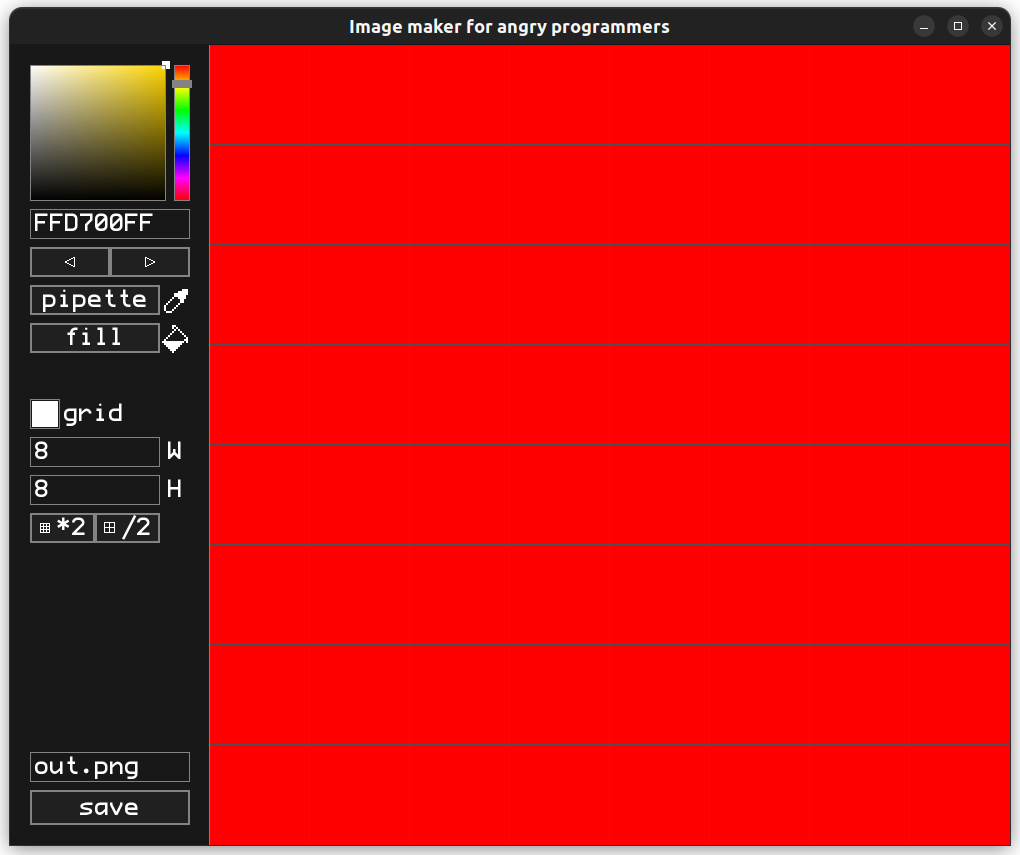
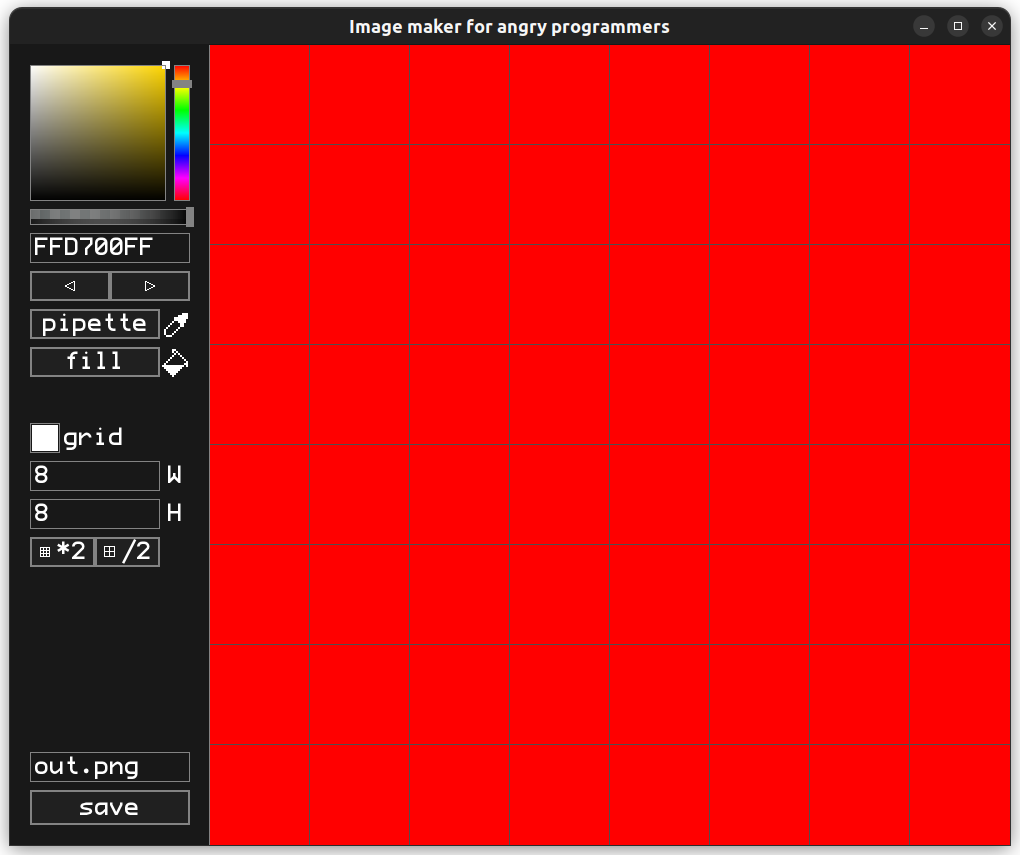
added alpha-slider

Changed region(s): [[0.0304, 0.2433, 0.2127, 0.669]]

diff --git a/src/menu.c b/src/menu.c
@@ -164,15 +164,19 @@ void drawMenu(shared_state_t *s, menu_state_t *ms, Rectangle menu_rect){
     int color_picker_size = menu_content_width - huebar_width - huebar_padding;
 
     Vector3 color_picker_hsv = s->active_color.hsv;
+    float bar_alpha = s->active_color.rgba.a / 255.0;
     float bar_hue = color_picker_hsv.x; // The color panel should only affect saturation & value. Thus hue is buffered.
     GuiColorPanelHSV((Rectangle){menu_padding, color_picker_y, color_picker_size, color_picker_size}, "heyyyy", &color_picker_hsv);
-    GuiColorBarHue((Rectangle){menu_padding + color_picker_size + huebar_padding, color_picker_y, huebar_width, color_picker_size}, "oiii", &bar_hue);
+    GuiColorBarHue(  (Rectangle){menu_padding + color_picker_size + huebar_padding, color_picker_y, huebar_width, color_picker_size}, "oiii", &bar_hue);
+    GuiColorBarAlpha((Rectangle){menu_padding, color_picker_y + color_picker_size + huebar_padding, color_picker_size + huebar_padding + huebar_width, huebar_width}, "uiii", &bar_alpha);
     color_picker_hsv.x = bar_hue;
 
     // check if the color picker changed the color
     if (memcmp(&color_picker_hsv, &s->active_color.hsv, sizeof(color_picker_hsv)) != 0){
         setFromHSV(&s->active_color, color_picker_hsv);
     }
+    // set alpha value. Since it is not represented in HSV, we modify rgba directly, to avoid overriding the hsv value with a lossy rgb -> hsv conversion.
+    s->active_color.rgba.a = bar_alpha * 255;
 
 
     // hex code text box
@@ -181,7 +185,7 @@ void drawMenu(shared_state_t *s, menu_state_t *ms, Rectangle menu_rect){
         sprintf(ms->hex_field, "%02X%02X%02X%02X", color.r, color.g, color.b, color.a);
     }
 
-    Rectangle hex_box = {menu_padding, color_picker_size + color_picker_y + huebar_padding, menu_content_width, ms->font_size};
+    Rectangle hex_box = {menu_padding, color_picker_size + color_picker_y + 2*huebar_padding + huebar_width, menu_content_width, ms->font_size};
     if(GuiTextBox(hex_box, ms->hex_field, 9, ms->isEditingHexField)){
         ms->isEditingHexField = !ms->isEditingHexField;
         if (!ms->isEditingHexField){
@@ -205,7 +209,7 @@ void drawMenu(shared_state_t *s, menu_state_t *ms, Rectangle menu_rect){
         }
     }
 
-    int options_y = color_picker_size + color_picker_y + 2*huebar_padding + ms->font_size;
+    int options_y = color_picker_size + color_picker_y + 3*huebar_padding + huebar_width + ms->font_size;
     int item = 0;
 
     // undo / redo buttons
